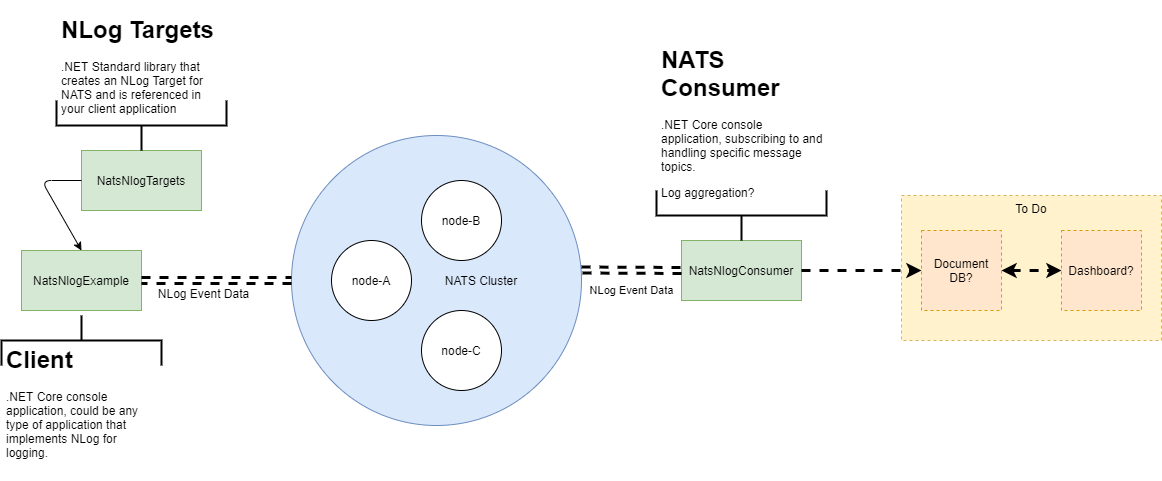
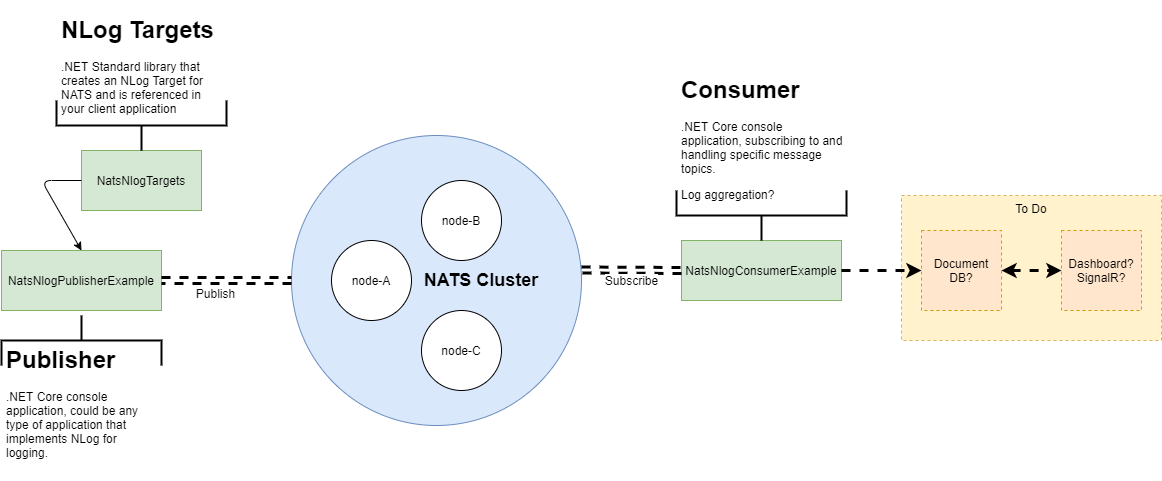
Updated documentation

diff --git a/README.md b/README.md
@@ -33,24 +33,21 @@ See the troughput comparison alongisde other messaging systems below
 ![Image of NATS Brokered Throughput](https://github.com/hughknaus/nats-nlog-example/blob/master/nats-nlog-example.png)
 
 ### Includes console application to provide a means for installing, configuring, and uninstalling NATS Streaming Server
-One of two configurations:
-  1. Cluster
+One of three configurations:
+  1. NATS Streaming Server Cluster (non-containerized)
     * 3 instances (node-A, node-B, node-C)
     * Runing on different local ports (ToDo: configurations for running on different machines)
       * Client ports: 4221, 4222, 4223
       * Cluster listening ports: 6221, 6222, 6223
     * HTTP server monitor (port: 8222)
-  2. Fault Tolerant
+  2. NATS Streaming Server Fault Tolerant (non-containerized)
     * 2 instances (node-A, node-B)
     * Runing on different local ports (ToDo: configurations for running on different machines)
       * Client ports: 4221, 4222
       * HA listening ports: 6221, 6222
       * Shared file data store
     * HTTP server monitor (port: 8222)
-
-Also, includes a docker-compose file of similar (but different) setup so that the above can be ran in containers. The major difference here is that a Docker Swarm was created that enlists NATS Servers along with the NATS Streaming Servers to provide communication amongst the cluster.
-If you're going to use the Docker containers you'll need to ensure that you're using the correct settings for:
-  * NatsNlogConsumerExample > appsettings.json (see comments in file)
-  * NatsNlogPublisherExample > nlog.config (see comments in file)
+  3. NATS Server Cluster with NATS Stream Server Cluster (Docker Swarm)
+    * 6 Containers (node-cluster-A, node-cluster-B, node-cluster-C, node-streaming-A, node-streaming-B, node-streaming-C, )
 
 Read about NATS here: https://nats.io/about/
